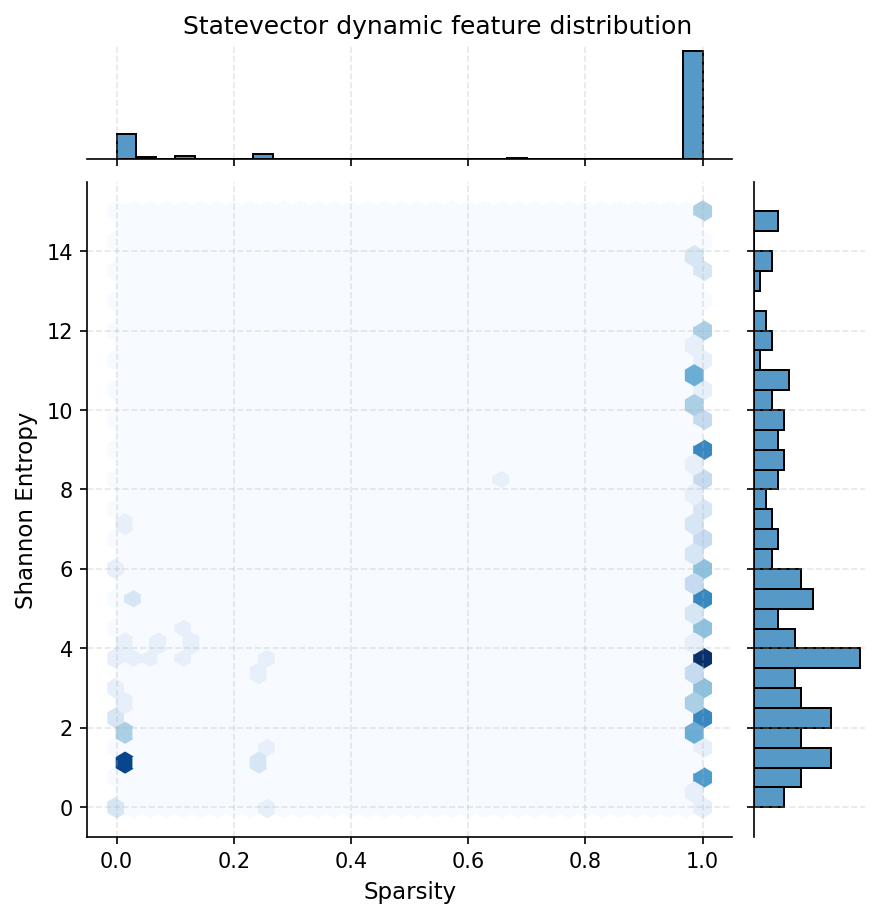
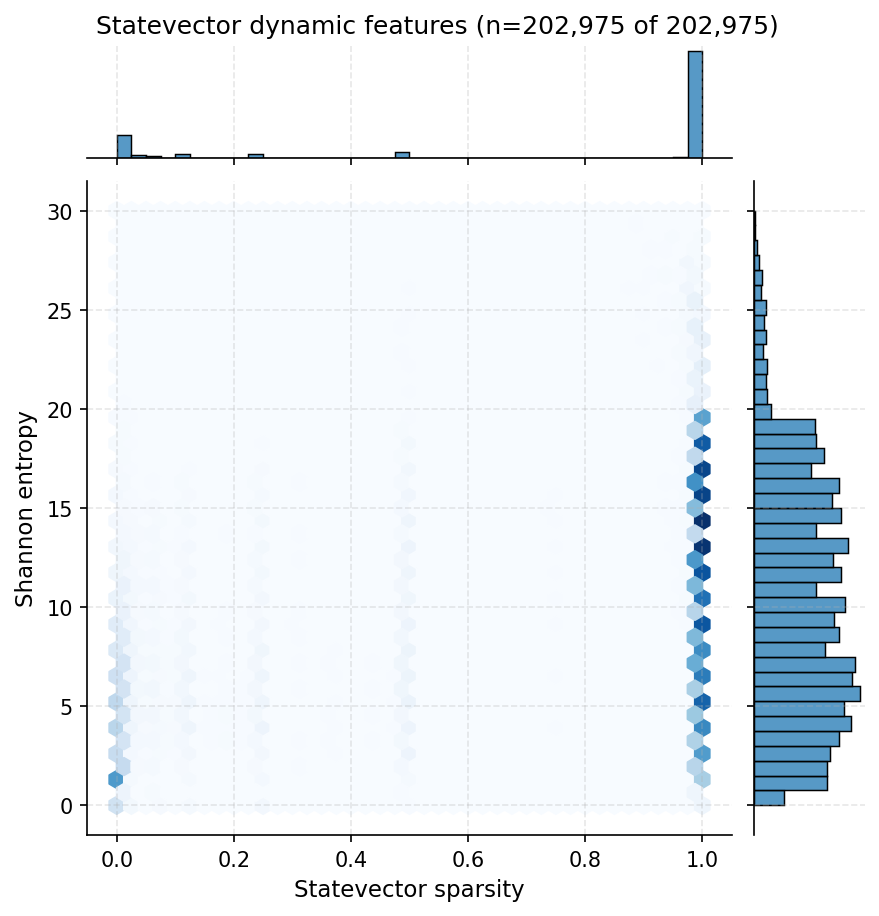
Replace distributions folder with estimator-corpus run
Removes the older RDBMS-vs-Qiskit distribution figures (which were
generated by analysis/distributions.py from rdbms_all_methods_training_data),
moves the metadata-corpus distribution script into analysis/distributions/,
and regenerates 01-05 + summary_stats.csv from the 203k-row
estimator_training_data parquet. Family-aware panels are removed since the
HierarchicalCircuit/Random split is not representative.

diff --git a/analysis/distributions/distributions.py b/analysis/distributions/distributions.py
@@ -1,25 +1,25 @@
 """
-distributions_metadata.py
-=========================
-Aggregate circuit/workload distribution figures over the full metadata corpus
-(data/metadata/metadata_part_*.parquet). Companion to analysis/distributions.py
-(which runs on the training_data parquet).
+distributions.py
+================
+Aggregate circuit/workload distribution figures over a benchmark parquet
+corpus (defaults to data/metadata/metadata_part_*.parquet).
 
 Addresses SIGMOD revision E4 (R2:O1, R2:O3): aggregate gate mix, depth/width,
 and interaction-graph statistics across the benchmark dataset.
 
-Outputs:
-    analysis/distributions_metadata/
-        01_gate_mix.png            -- top-N gate frequencies, by family
-        02_circuit_structure.png   -- num_qubits, depth, size, 2Q gate stats, ...
-        03_depth_vs_width.png      -- 2-D coverage heatmap (qubits x depth)
-        04_graph_features.png      -- interaction-graph statistics
-        05_dynamic_features.png    -- sparsity vs Shannon entropy
-        summary_stats.csv          -- per-feature count/median/p5/p95
+Outputs (default `analysis/distributions/`, override with --out):
+    01_gate_mix.png            -- top-N gate frequencies
+    02_circuit_structure.png   -- num_qubits, depth, size, 2Q gate stats, ...
+    03_depth_vs_width.png      -- 2-D coverage heatmap (qubits x depth)
+    04_graph_features.png      -- interaction-graph statistics
+    05_dynamic_features.png    -- sparsity vs Shannon entropy
+    summary_stats.csv          -- per-feature count/median/p5/p95
 
 Usage:
-    python analysis/distributions_metadata.py
-    python analysis/distributions_metadata.py --data 'data/metadata/metadata_part_*.parquet'
+    python analysis/distributions/distributions.py
+    python analysis/distributions/distributions.py \\
+        --data analysis/training_data/estimator_training_data.parquet \\
+        --out  analysis/distributions_estimator
 """
 
 from __future__ import annotations
@@ -29,7 +29,6 @@ import glob
 import json
 import logging
 import os
-import re
 import sys
 import warnings
 from collections import Counter
@@ -67,11 +66,12 @@ DYNAMIC = ["statevector_saved_sparsity", "statevector_saved_shannon_entropy"]
 
 # Columns we read; everything else stays on disk.
 NEEDED_COLS = (
-    ["name", "gate_counts"]
+    ["gate_counts"]
     + STRUCTURE + GRAPH + DYNAMIC
 )
 
-OUT_DIR = os.path.dirname(os.path.abspath(__file__))
+DEFAULT_OUT_DIR = os.path.dirname(os.path.abspath(__file__))
+OUT_DIR = DEFAULT_OUT_DIR
 
 ACCENT_COLOR = "#4C72B0"
 GRAPH_COLOR  = "#E88B4E"
@@ -89,13 +89,6 @@ plt.rcParams.update({
     "figure.dpi":        FIG_DPI,
 })
 
-FAMILY_PALETTE = {
-    "HierarchicalCircuit": "#4C72B0",
-    "Random":              "#DD8452",
-    "Other":               "#8172B2",
-}
-
-
 # ── Helpers ───────────────────────────────────────────────────────────────────
 def save(fig: plt.Figure, name: str) -> None:
     path = os.path.join(OUT_DIR, name)
@@ -106,16 +99,6 @@ def save(fig: plt.Figure, name: str) -> None:
 
 def present_cols(df: pd.DataFrame, cols: list[str]) -> list[str]:
     return [c for c in cols if c in df.columns]
-
-
-def family_of(name: object) -> str:
-    if not isinstance(name, str):
-        return "Other"
-    if name.startswith("HierarchicalCircuit"):
-        return "HierarchicalCircuit"
-    if re.match(r"^circuit-\d", name):
-        return "Random"
-    return "Other"
 
 
 def load_corpus(pattern: str) -> pd.DataFrame:
@@ -137,14 +120,11 @@ def load_corpus(pattern: str) -> pd.DataFrame:
         log.info("  %s: %d rows", os.path.basename(f), len(parts[-1]))
     df = pd.concat(parts, ignore_index=True)
     log.info("Corpus: %d rows × %d columns", *df.shape)
-
-    df["family"] = df["name"].apply(family_of)
-    log.info("Family counts: %s", df["family"].value_counts().to_dict())
     return df
 
 
 # ═══════════════════════════════════════════════════════════════════════════════
-# 1. Gate-mix bar chart (overall + per family)
+# 1. Gate-mix bar chart
 # ═══════════════════════════════════════════════════════════════════════════════
 def plot_gate_mix(df: pd.DataFrame) -> None:
     log.info("[1/5] Gate-mix frequency chart …")
@@ -163,16 +143,11 @@ def plot_gate_mix(df: pd.DataFrame) -> None:
                 return {}
         return {}
 
-    families = list(df["family"].unique())
-    family_counters: dict[str, Counter] = {f: Counter() for f in families}
     overall: Counter = Counter()
-
-    for fam, row in zip(df["family"].values, df["gate_counts"].values):
+    for row in df["gate_counts"].values:
         d = parse(row)
-        if not d:
-            continue
-        family_counters[fam].update(d)
-        overall.update(d)
+        if d:
+            overall.update(d)
 
     if not overall:
         log.warning("  No gate data found – skipping.")
@@ -183,34 +158,13 @@ def plot_gate_mix(df: pd.DataFrame) -> None:
     total  = sum(overall.values())
     pcts   = [100 * overall[g] / total for g in gates]
 
-    fig, (ax_a, ax_b) = plt.subplots(
-        1, 2, figsize=(15, 6),
-        gridspec_kw={"width_ratios": [1.0, 1.1]},
-    )
-
-    bars = ax_a.barh(gates[::-1], pcts[::-1],
-                     color=ACCENT_COLOR, alpha=0.85)
-    ax_a.bar_label(bars, labels=[f"{p:.1f}%" for p in pcts[::-1]],
-                   padding=3, fontsize=8)
-    ax_a.set_xlabel("Share of total gate count (%)")
-    ax_a.set_title(f"(a) Overall gate mix (top {top_n}, N={len(df):,} circuits)")
-
-    # Per-family stacked shares for the same top-N gates.
-    fam_order = [f for f in ["HierarchicalCircuit", "Random", "Other"]
-                 if f in family_counters and sum(family_counters[f].values()) > 0]
-    bottom = np.zeros(len(gates))
-    for fam in fam_order:
-        fc = family_counters[fam]
-        fam_total = sum(fc.values()) or 1
-        shares = np.array([100 * fc.get(g, 0) / fam_total for g in gates])
-        ax_b.bar(gates, shares, bottom=bottom,
-                 label=fam, color=FAMILY_PALETTE.get(fam, "#888"),
-                 alpha=0.85)
-        bottom += shares
-    ax_b.set_ylabel("Within-family share (%)  — stacked")
-    ax_b.set_title("(b) Gate-mix composition per workload family")
-    ax_b.tick_params(axis="x", rotation=45)
-    ax_b.legend(title="Family", loc="upper right", fontsize=8)
+    fig, ax = plt.subplots(figsize=(9, 6))
+    bars = ax.barh(gates[::-1], pcts[::-1],
+                   color=ACCENT_COLOR, alpha=0.85)
+    ax.bar_label(bars, labels=[f"{p:.1f}%" for p in pcts[::-1]],
+                 padding=3, fontsize=8)
+    ax.set_xlabel("Share of total gate count (%)")
+    ax.set_title(f"Overall gate mix (top {top_n}, N={len(df):,} circuits)")
 
     fig.tight_layout()
     save(fig, "01_gate_mix.png")
@@ -282,45 +236,29 @@ def plot_depth_vs_width(df: pd.DataFrame) -> None:
         log.warning("  num_qubits / depth missing – skipping.")
         return
 
-    sub = df[["num_qubits", "depth", "family"]].dropna()
+    sub = df[["num_qubits", "depth"]].dropna()
     sub = sub[(sub["num_qubits"] > 0) & (sub["depth"] > 0)]
     if sub.empty:
         log.warning("  No positive (qubits, depth) – skipping.")
         return
 
-    fig, axes = plt.subplots(1, 2, figsize=(13, 5))
+    fig, ax = plt.subplots(figsize=(7, 5.5))
 
-    # (a) Heatmap of all circuits.
     q_max = int(sub["num_qubits"].max())
     d_max = int(sub["depth"].max())
     x_edges = np.arange(1, q_max + 2) - 0.5  # integer qubits
     y_edges = np.logspace(0, np.log10(d_max + 1), 40)
     h, xe, ye = np.histogram2d(sub["num_qubits"], sub["depth"],
                                bins=[x_edges, y_edges])
-    pcm = axes[0].pcolormesh(xe, ye, h.T,
-                             norm=LogNorm(vmin=1, vmax=max(h.max(), 1)),
-                             cmap="viridis")
-    axes[0].set_yscale("log")
-    axes[0].set_xlabel("num_qubits")
-    axes[0].set_ylabel("depth (log)")
-    axes[0].set_title(f"(a) (qubits, depth) coverage — {len(sub):,} circuits")
-    cbar = fig.colorbar(pcm, ax=axes[0])
+    pcm = ax.pcolormesh(xe, ye, h.T,
+                        norm=LogNorm(vmin=1, vmax=max(h.max(), 1)),
+                        cmap="viridis")
+    ax.set_yscale("log")
+    ax.set_xlabel("num_qubits")
+    ax.set_ylabel("depth (log)")
+    ax.set_title(f"(qubits, depth) coverage — {len(sub):,} circuits")
+    cbar = fig.colorbar(pcm, ax=ax)
     cbar.set_label("# circuits (log)")
-
-    # (b) Family-coloured scatter w/ marginal medians.
-    for fam, g in sub.groupby("family"):
-        axes[1].scatter(g["num_qubits"], g["depth"],
-                        s=4, alpha=0.18,
-                        color=FAMILY_PALETTE.get(fam, "#666"),
-                        label=f"{fam} (n={len(g):,})")
-    axes[1].set_yscale("log")
-    axes[1].set_xlabel("num_qubits")
-    axes[1].set_ylabel("depth (log)")
-    axes[1].set_title("(b) Coverage per workload family")
-    leg = axes[1].legend(title="Family", fontsize=8, markerscale=2,
-                         loc="lower right")
-    for lh in leg.legend_handles:
-        lh.set_alpha(0.9)
 
     fig.tight_layout()
     save(fig, "03_depth_vs_width.png")
@@ -447,8 +385,14 @@ def main() -> None:
         help="Glob for metadata parquet files "
              "(default: data/metadata/metadata_part_*.parquet)",
     )
+    parser.add_argument(
+        "--out", default=DEFAULT_OUT_DIR,
+        help=f"Output directory for figures + CSV (default: {DEFAULT_OUT_DIR})",
+    )
     args = parser.parse_args()
 
+    global OUT_DIR
+    OUT_DIR = args.out
     os.makedirs(OUT_DIR, exist_ok=True)
     log.info("Output directory: %s/", OUT_DIR)
 
